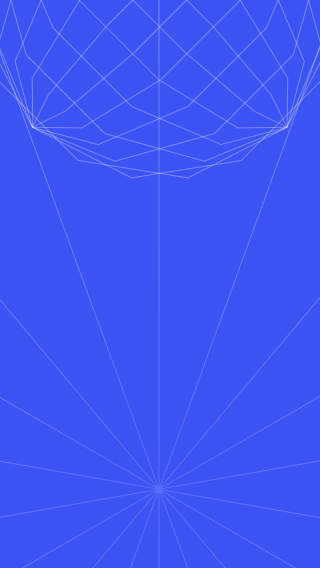
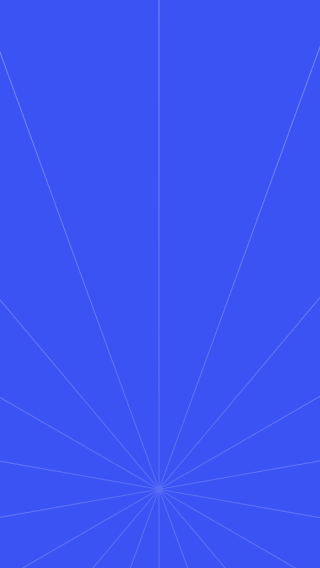
minor fixes

diff --git a/src/components/Footer/Footer.css b/src/components/Footer/Footer.css
@@ -42,7 +42,7 @@
     justify-content: center;
     /*align-items: center;*/
     gap: 40px;
-    flex-wrap: wrap;
+    flex-wrap: nowrap;
     padding: 10px;
     padding-bottom:50px;
     font-size: 20px;
@@ -89,6 +89,9 @@
 }
 
 @media screen and (max-width:1100px) {
+    .footer {
+      margin-bottom: 0 !important;
+    }
     .footer_container h1{
         padding: 0;
         font-size: x-large;
@@ -104,7 +107,7 @@
 
     .get_in_touch{
         margin-top: 0 !important;
-        font-size: 9px !important;
+        font-size: 8px !important;
     }
 
     .footer_bottom_container .column{
@@ -129,7 +132,29 @@
 }
 
 @media screen and (max-width: 768px) {
-  .column {
-    padding-top: 0 !important;
-  }
+    
+    .column {
+      padding-top: 0 !important;
+    }    
+
+    .footer_bottom_container .column{
+        width: 60px;
+    }
+ 
+    .footer_bottom_container .column .header{
+        font-size: 12px;
+        line-height: 16px;
+    }
+
+    .footer_bottom_container .column .links{
+        font-size: 10px;
+    }
+
+    .footer_bottom_container .column .socials img{
+        width: 12px;
+    }
+
+    .question p{
+        font-size: 10px;
+    }
 }

diff --git a/src/components/Features/Features.css b/src/components/Features/Features.css
@@ -1,10 +1,11 @@
 .features_container{
-    padding-bottom: 140px;
+    /*padding-bottom: 140px;*/
     background: url(../../assets/rays.png);
     background-size: cover;
     background-repeat: no-repeat;
     background-position: -120px -70px;
     font-size: 80px;
+    height: fit-content !important;
 }
 
 .right_feature h1{
@@ -33,6 +34,10 @@
 }
 
 @media screen and (max-width:1100px) {
+  /*.features_container {*/
+    /*flex-direction: column;*/
+  /*}*/
+
     .features_container{
         flex-direction: column;
         background: url(../../assets/mobile_screens/features.png) no-repeat center center;
@@ -41,6 +46,7 @@
         -o-background-size: contain;
         background-size: contain;
         background-position-y: bottom;
+        padding-bottom: 0;
     }
     .right_feature h1{
         font-size: 30px;
@@ -66,7 +72,7 @@
 
 @media screen and (max-width: 768px) {
     .left_feature img {
-        width: 150px !important;
+        width: 200px !important;
     }
 
     .right_feature h1 {

diff --git a/src/components/Landing/Landing.css b/src/components/Landing/Landing.css
@@ -80,14 +80,6 @@
         justify-content: space-evenly;
     }
 
-    .landing_background_container{
-        background: url(../../assets/mobile_screens/landing.png) no-repeat center center;
-        -webkit-background-size: contain;
-        -moz-background-size: contain;
-        -o-background-size: contain;
-        background-size: contain;
-        background-position-y: bottom;
-    }
     .left_hero{
         display: flex;
         flex-direction: column;

diff --git a/src/components/Disclaimer/Disclaimer.css b/src/components/Disclaimer/Disclaimer.css
@@ -32,9 +32,16 @@
 }
 
 @media screen and (max-width: 768px) {
+
+  .disclaimer_container {
+    justify-content: flex-start;
+    height: 85vh !important;
+    margin-top: 0;
+  }
+
   .disclaimer_head {
     font-size: 18px;
-    margin-top: 20vh;
+    margin-top: 0 !important;
   }
 
   .disclaimer_para {
@@ -43,6 +50,7 @@
 
   .disclaimer_footer {
     font-size: 22px;
+    margin-top: 60px;
     flex-wrap: wrap;
   }
 

diff --git a/src/components/Crypto/Crypto.css b/src/components/Crypto/Crypto.css
@@ -53,6 +53,11 @@
         line-height: 50px;
     }
 
+    .right_crypto h1 {
+      text-align: center;
+      align-items: center;
+    }
+
     .right_crypto p{
         text-align: center;
     }
@@ -72,12 +77,6 @@
     .find_out_btn_container {
         width: 100%;
     }
-
-   .left_crypto_head {
-        text-align: center;
-        align-self: center;
-    }
-    
 }
 
 @media screen and (max-width: 768px) {

diff --git a/src/components/Portfolio/Portfolio.css b/src/components/Portfolio/Portfolio.css
@@ -23,7 +23,7 @@
 }
 
 .portfolio_left{
-    width: 50vw;
+    width: 75vw;
 }
 
 .portfolio_container h1{
@@ -44,6 +44,11 @@
 @media screen and (max-width:1100px) {
     .portfolio_mover{
         display: none;
+    }
+
+    .portfolio_container {
+        width: 100vw !important;
+        padding: 40px 20px !important;
     }
 
     .portfolio_background_container{

diff --git a/src/components/Portfolio/Portfolio.jsx b/src/components/Portfolio/Portfolio.jsx
@@ -38,7 +38,7 @@ const Portfolio = () => {
             for every crypto need.
           </p>
           <b>
-            <p>No minimum capital<br/>
+            <p>No minimum capital. <br/>
               Zero crypto knowledge required
               <br /> to begin
             </p>
